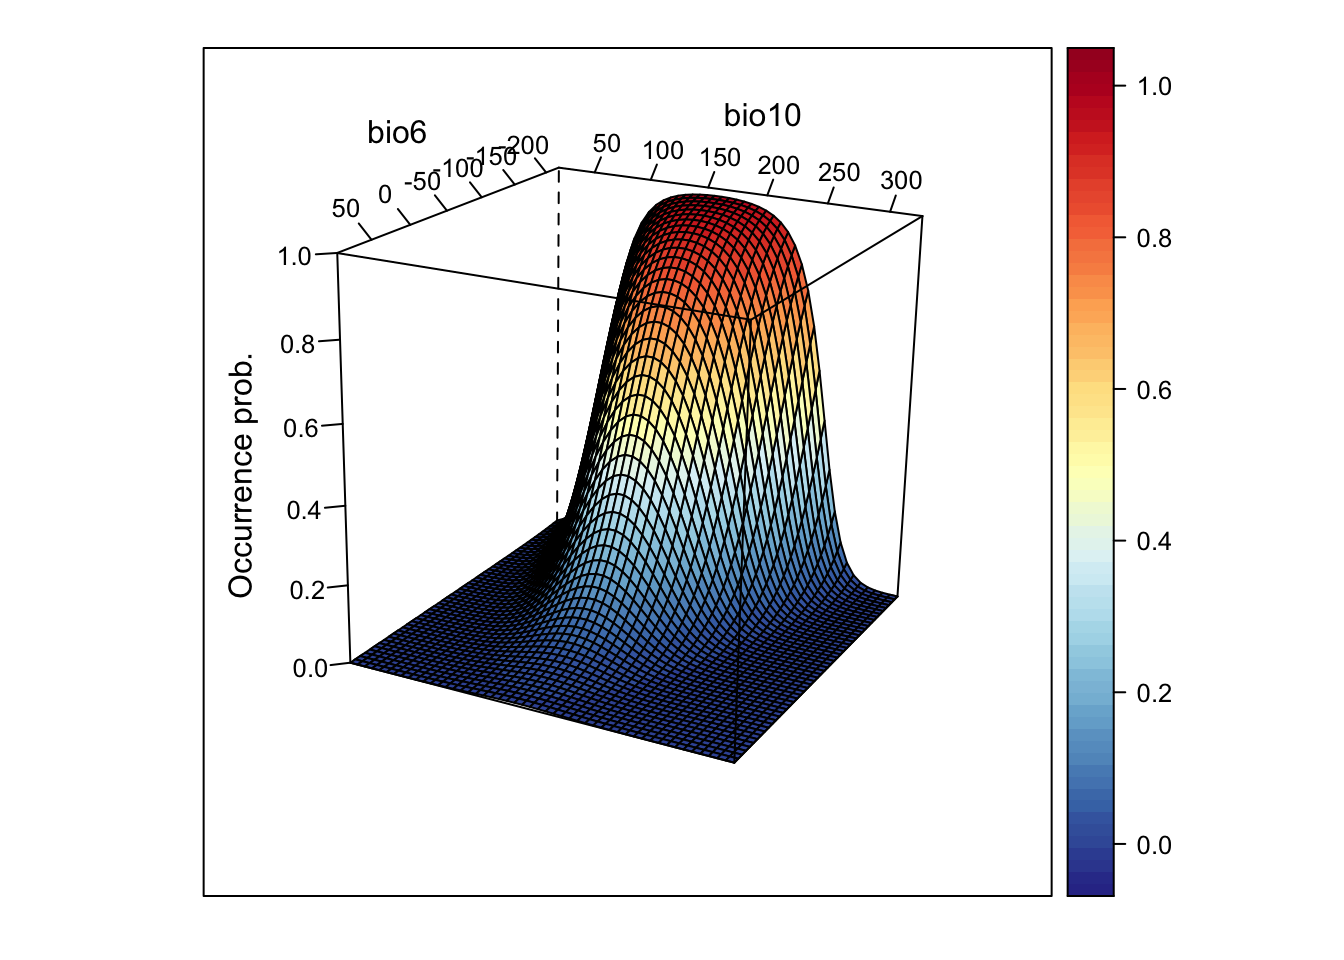
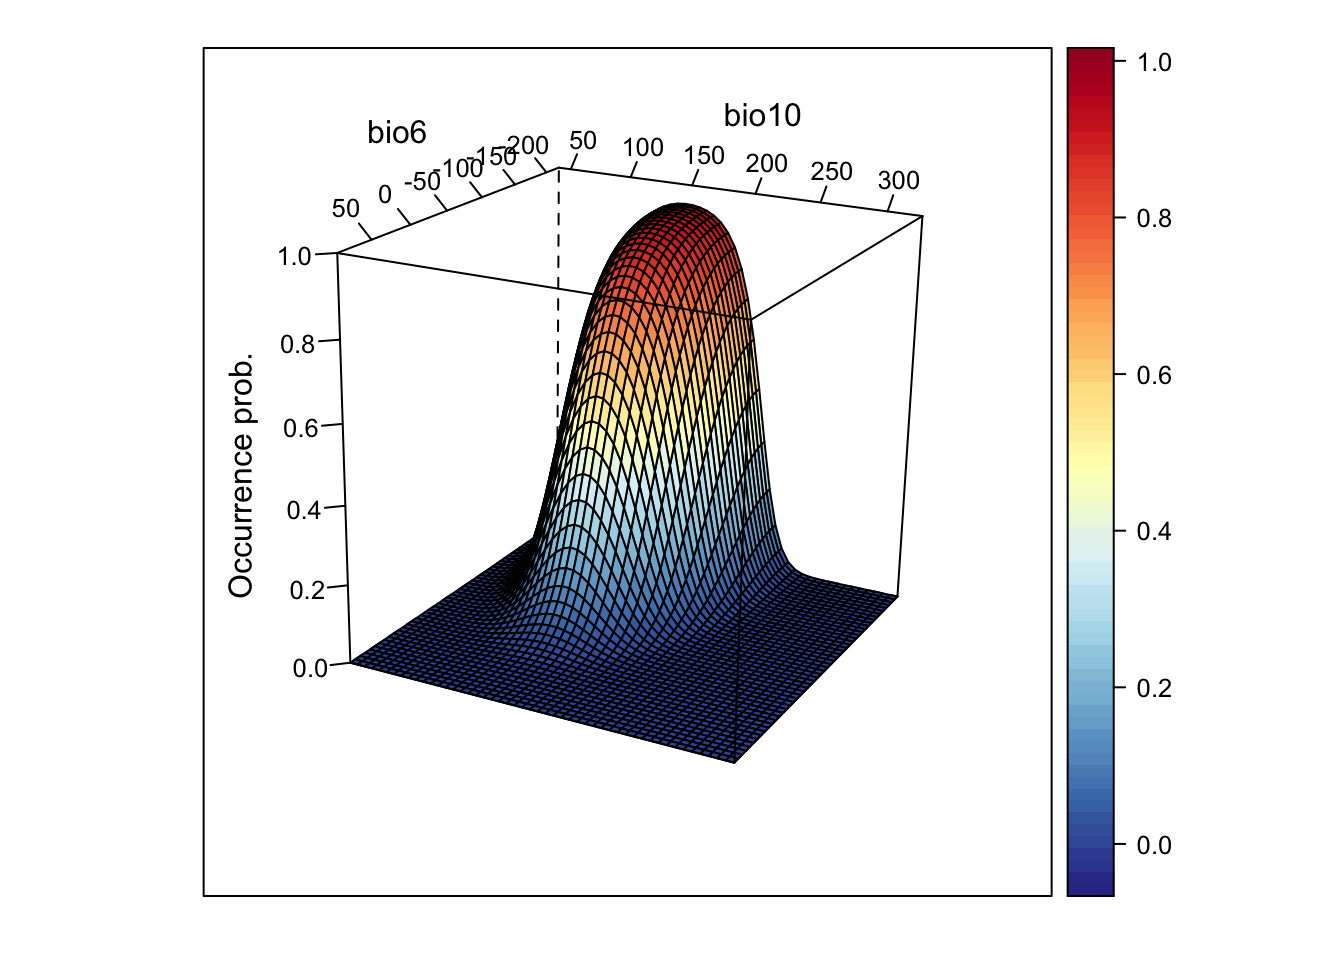
minor fix

diff --git a/6_SDM_eval.html b/6_SDM_eval.html
@@ -496,50 +496,42 @@ load(&#39;data/lynx_thinned.RData&#39;)</code></pre>
   glm( occ ~ bio6 + I(bio6^2) + bio10 + I(bio10^2), 
                family=&#39;binomial&#39;, data=lynx_thinned)
   )</code></pre>
-<pre><code>## Start:  AIC=314.73
+<pre><code>## Start:  AIC=270.14
 ## occ ~ bio6 + I(bio6^2) + bio10 + I(bio10^2)
 ## 
 ##              Df Deviance    AIC
-## - I(bio6^2)   1   306.25 314.25
-## &lt;none&gt;            304.73 314.73
-## - I(bio10^2)  1   329.31 337.31
-## - bio6        1   329.50 337.50
-## - bio10       1   331.24 339.24
-## 
-## Step:  AIC=314.25
-## occ ~ bio6 + bio10 + I(bio10^2)
-## 
-##              Df Deviance    AIC
-## &lt;none&gt;            306.25 314.25
-## - I(bio10^2)  1   332.96 338.96
-## - bio10       1   335.07 341.07
-## - bio6        1   435.68 441.68</code></pre>
+## &lt;none&gt;            260.14 270.14
+## - I(bio6^2)   1   264.09 272.09
+## - bio6        1   288.38 296.38
+## - bio10       1   303.37 311.37
+## - I(bio10^2)  1   304.86 312.86</code></pre>
 <pre class="r"><code>summary(m_step)</code></pre>
 <pre><code>## 
 ## Call:
-## glm(formula = occ ~ bio6 + bio10 + I(bio10^2), family = &quot;binomial&quot;, 
+## glm(formula = occ ~ bio6 + I(bio6^2) + bio10 + I(bio10^2), family = &quot;binomial&quot;, 
 ##     data = lynx_thinned)
 ## 
 ## Deviance Residuals: 
 ##     Min       1Q   Median       3Q      Max  
-## -2.0233  -0.5569  -0.1612   0.4923   2.9520  
+## -2.1116  -0.3996  -0.0316   0.4443   3.1844  
 ## 
 ## Coefficients:
 ##               Estimate Std. Error z value Pr(&gt;|z|)    
-## (Intercept) -1.342e+01  2.383e+00  -5.632 1.78e-08 ***
-## bio6        -2.856e-02  3.223e-03  -8.860  &lt; 2e-16 ***
-## bio10        1.394e-01  3.061e-02   4.554 5.27e-06 ***
-## I(bio10^2)  -4.394e-04  1.002e-04  -4.384 1.17e-05 ***
+## (Intercept) -1.925e+01  3.056e+00  -6.298 3.02e-10 ***
+## bio6        -5.372e-02  1.230e-02  -4.368 1.25e-05 ***
+## I(bio6^2)   -1.211e-04  6.165e-05  -1.965   0.0494 *  
+## bio10        2.220e-01  4.124e-02   5.382 7.35e-08 ***
+## I(bio10^2)  -7.588e-04  1.410e-04  -5.381 7.39e-08 ***
 ## ---
 ## Signif. codes:  0 &#39;***&#39; 0.001 &#39;**&#39; 0.01 &#39;*&#39; 0.05 &#39;.&#39; 0.1 &#39; &#39; 1
 ## 
 ## (Dispersion parameter for binomial family taken to be 1)
 ## 
-##     Null deviance: 529.79  on 422  degrees of freedom
-## Residual deviance: 306.25  on 419  degrees of freedom
-## AIC: 314.25
+##     Null deviance: 531.29  on 422  degrees of freedom
+## Residual deviance: 260.14  on 418  degrees of freedom
+## AIC: 270.14
 ## 
-## Number of Fisher Scoring iterations: 7</code></pre>
+## Number of Fisher Scoring iterations: 8</code></pre>
 </div>
 </div>
 <div id="model-assessment" class="section level1" number="2">
@@ -566,10 +558,10 @@ function.</p>
 <pre class="r"><code># If we do not provide &quot;newdata&quot;, then predict() should simply return the fitted values: 
 head(predict(m_step, type=&#39;response&#39;))</code></pre>
 <pre><code>##            1            2            3            4            5            6 
-## 0.0007145292 0.0022112588 0.0368702035 0.0438915707 0.0824323347 0.0878081312</code></pre>
+## 9.609411e-07 4.493609e-07 1.109808e-05 9.290470e-04 3.739806e-03 7.178475e-03</code></pre>
 <pre class="r"><code>head(m_step$fitted)</code></pre>
 <pre><code>##            1            2            3            4            5            6 
-## 0.0007145292 0.0022112588 0.0368702035 0.0438915707 0.0824323347 0.0878081312</code></pre>
+## 9.609411e-07 4.493609e-07 1.109808e-05 9.290470e-04 3.739806e-03 7.178475e-03</code></pre>
 <p>If we want to predict model response along the two environmental
 gradients, we first need to define a grid that contains all combinations
 of the two variables. For this, we use a combination of the
@@ -586,12 +578,12 @@ xyz &lt;- expand.grid(
 xyz$z &lt;- predict(m_step, newdata=xyz, type=&#39;response&#39;)
 summary(xyz)</code></pre>
 <pre><code>##       bio6             bio10              z            
-##  Min.   :-221.03   Min.   : 17.33   Min.   :0.0000000  
-##  1st Qu.:-144.37   1st Qu.: 92.80   1st Qu.:0.0009121  
-##  Median : -64.51   Median :171.40   Median :0.0191752  
-##  Mean   : -64.51   Mean   :171.40   Mean   :0.1941612  
-##  3rd Qu.:  15.34   3rd Qu.:250.01   3rd Qu.:0.2725051  
-##  Max.   :  92.00   Max.   :325.47   Max.   :0.9809673</code></pre>
+##  Min.   :-220.61   Min.   : 39.86   Min.   :0.0000000  
+##  1st Qu.:-144.05   1st Qu.:109.80   1st Qu.:0.0000083  
+##  Median : -64.31   Median :182.66   Median :0.0026296  
+##  Mean   : -64.31   Mean   :182.66   Mean   :0.1695909  
+##  3rd Qu.:  15.44   3rd Qu.:255.53   3rd Qu.:0.1853788  
+##  Max.   :  92.00   Max.   :325.47   Max.   :0.9499314</code></pre>
 <pre class="r"><code># As result, we have a 3D data structure and want to visualise this.
 # Here, I first set a color palette
 library(RColorBrewer)
@@ -648,7 +640,7 @@ performance</h2>
 meaning how well the model fits the data.</p>
 <pre class="r"><code>expl_deviance(obs = lynx_thinned$occ,
               pred = m_step$fitted)</code></pre>
-<pre><code>## [1] 0.4219294</code></pre>
+<pre><code>## [1] 0.5103614</code></pre>
 <p>Here, our two-predictor model explains roughly 40% of the variance in
 the data. However, often we are not only interested in how well our
 model fits the data but how robust the model is against changes in the
@@ -674,6 +666,9 @@ class="citation">(Roberts et al. 2017)</span>.</p>
 re-calibrate the model using only 4/5 of the original data and predict
 the model to the hold-out 1/5 of the data.</p>
 <pre class="r"><code>preds_cv &lt;- crossvalSDM(m_step, traindat = lynx_thinned, colname_species = &#39;occ&#39;, colname_pred = my_preds)</code></pre>
+<pre><code>## Warning: glm.fit: fitted probabilities numerically 0 or 1 occurred
+
+## Warning: glm.fit: fitted probabilities numerically 0 or 1 occurred</code></pre>
 <p>We receive a numeric vector of cross-validated prediction. Out of
 curiosity, let us compare the fitted values on the training data and the
 predictions on the cross-validation data. You should see that the
@@ -714,17 +709,17 @@ thresh_dat &lt;- data.frame(
 (thresh_cv &lt;- PresenceAbsence::optimal.thresholds(DATA= thresh_dat))</code></pre>
 <pre><code>##          Method      pred
 ## 1       Default 0.5000000
-## 2     Sens=Spec 0.3600000
-## 3  MaxSens+Spec 0.4600000
-## 4      MaxKappa 0.5200000
-## 5        MaxPCC 0.5250000
-## 6  PredPrev=Obs 0.4700000
-## 7       ObsPrev 0.3191489
-## 8      MeanProb 0.3201038
-## 9    MinROCdist 0.4100000
-## 10      ReqSens 0.3000000
-## 11      ReqSpec 0.4400000
-## 12         Cost 0.5200000</code></pre>
+## 2     Sens=Spec 0.4000000
+## 3  MaxSens+Spec 0.3900000
+## 4      MaxKappa 0.5500000
+## 5        MaxPCC 0.5500000
+## 6  PredPrev=Obs 0.4900000
+## 7       ObsPrev 0.3215130
+## 8      MeanProb 0.3208598
+## 9    MinROCdist 0.3900000
+## 10      ReqSens 0.3900000
+## 11      ReqSpec 0.3900000
+## 12         Cost 0.5500000</code></pre>
 <p>We can compare observed vs. predicted presences and absences based on
 these tresholds. For this, we take our predictions from the
 cross-validation. The comparison is easiest illustrated in a confusion
@@ -737,8 +732,8 @@ thresholds data frame):</p>
 <pre class="r"><code>(cmx_maxSSS &lt;- PresenceAbsence::cmx(DATA= thresh_dat, threshold=thresh_cv[3,2]))</code></pre>
 <pre><code>##          observed
 ## predicted   1   0
-##         1 103  36
-##         0  32 252</code></pre>
+##         1 119  43
+##         0  17 244</code></pre>
 <p>From such a confusion matrix, we can calculate different evaluation
 criteria. For example,<br />
 - the proportion of correctly classified test observations
@@ -749,22 +744,22 @@ sensitivity or true positive rate<br />
 specificity or true negative rate</p>
 <pre class="r"><code># Proportion of correctly classified observations
 PresenceAbsence::pcc(cmx_maxSSS, st.dev=F)</code></pre>
-<pre><code>## [1] 0.8392435</code></pre>
+<pre><code>## [1] 0.858156</code></pre>
 <pre class="r"><code># Sensitivity = true positive rate
 PresenceAbsence::sensitivity(cmx_maxSSS, st.dev=F)</code></pre>
-<pre><code>## [1] 0.762963</code></pre>
+<pre><code>## [1] 0.875</code></pre>
 <pre class="r"><code># Specificity = true negative rate
 PresenceAbsence::specificity(cmx_maxSSS, st.dev=F)</code></pre>
-<pre><code>## [1] 0.875</code></pre>
+<pre><code>## [1] 0.8501742</code></pre>
 <p>Other measures are <em>Kappa</em> and <em>TSS</em> (the true skill
 statistic). <span class="citation">Allouche, Tsoar, and Kadmon
 (2006)</span> explain how to calculate these.</p>
 <pre class="r"><code># Kappa
 PresenceAbsence::Kappa(cmx_maxSSS, st.dev=F)</code></pre>
-<pre><code>## [1] 0.6329812</code></pre>
+<pre><code>## [1] 0.6904501</code></pre>
 <pre class="r"><code># True skill statistic
 TSS(cmx_maxSSS) </code></pre>
-<pre><code>## [1] 0.637963</code></pre>
+<pre><code>## [1] 0.7251742</code></pre>
 <p>According to <span class="citation">Araujo et al. (2005)</span>,
 <em>Kappa</em>&gt;0.4 indicate good predictions. For TSS, we often
 assume TSS&gt;0.5 to indicate good predictions.</p>
@@ -795,7 +790,7 @@ plot(roc_cv, col = &quot;grey70&quot;, lwd = 2)</code></pre>
 <p><img src="6_SDM_eval_files/figure-html/unnamed-chunk-13-1.png" width="672" /></p>
 <pre class="r"><code># Compute the AUC:
 AUC::auc(roc_cv)</code></pre>
-<pre><code>## [1] 0.8990484</code></pre>
+<pre><code>## [1] 0.9278541</code></pre>
 <p>It seems our model is performing pretty well on hold-out data. We can
 thus attempt making predictions in space and time.</p>
 <p>Please be aware that many packages contain functions for evaluating
@@ -806,8 +801,8 @@ the <code>mecofun</code> package contains a function
 measures. By default, this function uses the <em>MaxSens+Spec</em>
 threshold.</p>
 <pre class="r"><code>evalSDM(lynx_thinned$occ, preds_cv)</code></pre>
-<pre><code>##         AUC      TSS     Kappa     Sens  Spec       PCC        D2 thresh
-## 1 0.8990484 0.637963 0.6329812 0.762963 0.875 0.8392435 0.4030364   0.46</code></pre>
+<pre><code>##         AUC       TSS     Kappa  Sens      Spec      PCC        D2 thresh
+## 1 0.9278541 0.7251742 0.6904501 0.875 0.8501742 0.858156 0.4918152   0.39</code></pre>
 <div class="alert alert-info">
 <p><em><strong>Exercise:</strong></em></p>
 <p>Use the <code>m2</code> model from the previous exercise and assess
@@ -896,8 +891,8 @@ plot(r_pred_curr, axes=F, main=&#39;Occ. prob. - today&#39;)
 # Make raster stack of predictions to future environment:
 r_pred_fut &lt;- rasterFromXYZ(bio_fut_df[,c(&#39;x&#39;,&#39;y&#39;,&#39;pred_glm&#39;)])
 plot(r_pred_fut, axes=F, main=&#39;Occ. prob. - 2050&#39;)</code></pre>
-<p><img src="6_SDM_eval_files/figure-html/unnamed-chunk-20-1.png" width="672" />
-We see that lynx is predicted to decline under the chosen climate
+<p><img src="6_SDM_eval_files/figure-html/unnamed-chunk-20-1.png" width="672" /></p>
+<p>We see that lynx is predicted to decline under the chosen climate
 scenario.</p>
 <p>Lastly, we can also translate the continuous predictions into binary
 predictions and plot the resulting maps.</p>
